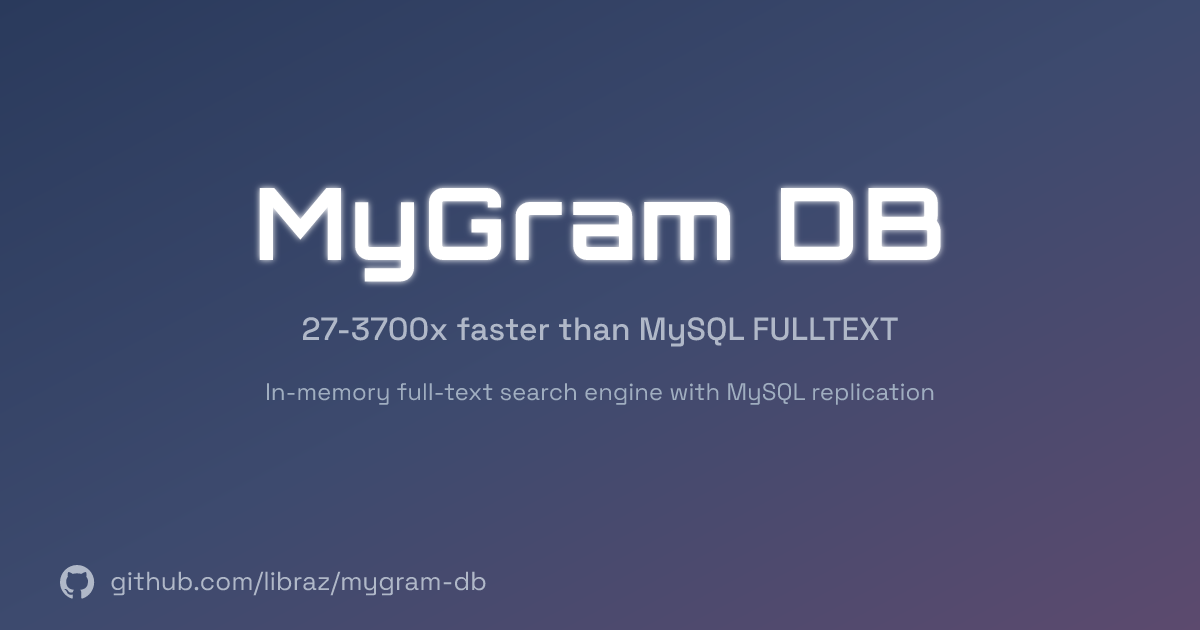
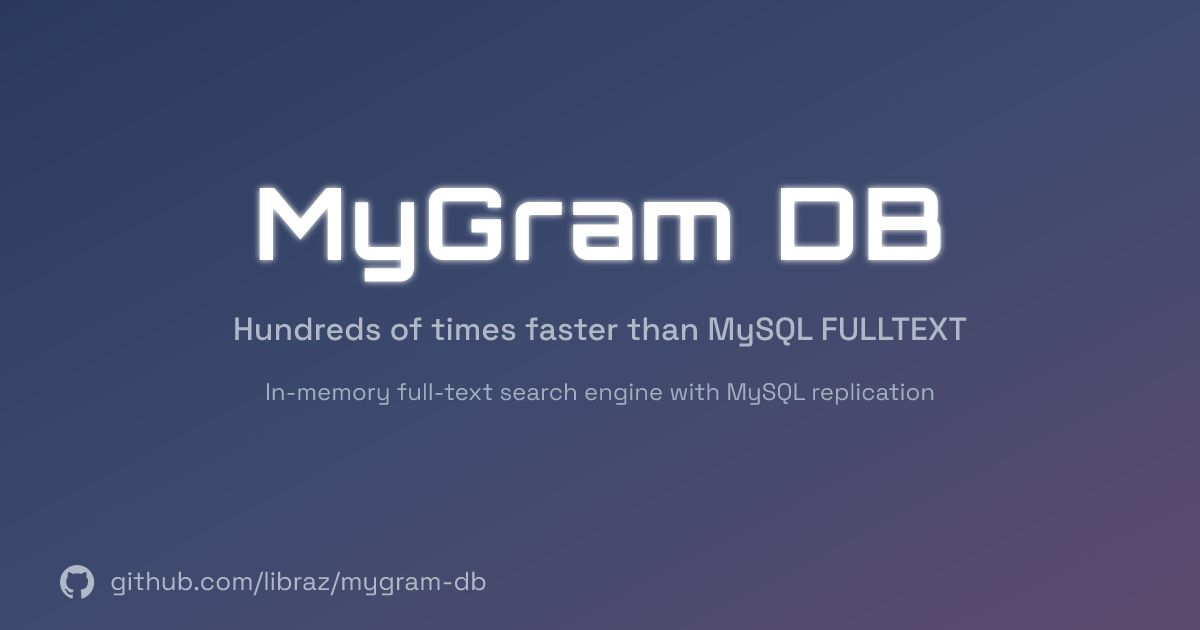
Bump v1.5.3 → v1.5.4 and promote Python client to official
- Update version references across config, FAQ, and installation docs (en/ja)
- Remove experimental badge from Python client, switch install to PyPI (`pip install mygramdb-client`)
- Update OG image

Changed region(s): [[0.185, 0.4825, 0.8017, 0.5429]]

diff --git a/.vitepress/config.ts b/.vitepress/config.ts
@@ -19,7 +19,7 @@ const softwareApplicationJsonLd = {
   description: 'In-memory full-text search engine that replaces slow MySQL FULLTEXT. Tens to hundreds of times faster with real-time MySQL binlog replication.',
   url: siteUrl,
   downloadUrl: githubUrl,
-  softwareVersion: '1.5.3',
+  softwareVersion: '1.5.4',
   author: {
     '@type': 'Person',
     name: 'libraz'
@@ -147,9 +147,9 @@ export default withMermaid(defineConfig({
           { text: '比較', link: '/ja/comparison' },
           { text: 'FAQ', link: '/ja/faq' },
           {
-            text: 'v1.5.3',
+            text: 'v1.5.4',
             items: [
-              { text: 'リリースノート', link: 'https://github.com/libraz/mygram-db/blob/main/docs/releases/v1.5.3.md' },
+              { text: 'リリースノート', link: 'https://github.com/libraz/mygram-db/blob/main/docs/releases/v1.5.4.md' },
               { text: '変更履歴', link: 'https://github.com/libraz/mygram-db/blob/main/CHANGELOG.md' }
             ]
           }
@@ -186,9 +186,9 @@ export default withMermaid(defineConfig({
       { text: 'Comparison', link: '/comparison' },
       { text: 'FAQ', link: '/faq' },
       {
-        text: 'v1.5.3',
+        text: 'v1.5.4',
         items: [
-          { text: 'Release Notes', link: 'https://github.com/libraz/mygram-db/blob/main/docs/releases/v1.5.3.md' },
+          { text: 'Release Notes', link: 'https://github.com/libraz/mygram-db/blob/main/docs/releases/v1.5.4.md' },
           { text: 'Changelog', link: 'https://github.com/libraz/mygram-db/blob/main/CHANGELOG.md' }
         ]
       }

diff --git a/src/index.md b/src/index.md
@@ -105,10 +105,10 @@ resp, _ := client.Search("articles", "hello world", mygram.SearchOptions{})
 
 <a href="https://github.com/libraz/go-mygram-client" class="vp-button" target="_blank"><svg xmlns="http://www.w3.org/2000/svg" width="16" height="16" viewBox="0 0 24 24" fill="currentColor"><path d="M12 2A10 10 0 0 0 2 12c0 4.42 2.87 8.17 6.84 9.5c.5.08.66-.23.66-.5v-1.69c-2.77.6-3.36-1.34-3.36-1.34c-.46-1.16-1.11-1.47-1.11-1.47c-.91-.62.07-.6.07-.6c1 .07 1.53 1.03 1.53 1.03c.87 1.52 2.34 1.07 2.91.83c.09-.65.35-1.09.63-1.34c-2.22-.25-4.55-1.11-4.55-4.92c0-1.11.38-2 1.03-2.71c-.1-.25-.45-1.29.1-2.64c0 0 .84-.27 2.75 1.02c.79-.22 1.65-.33 2.5-.33s1.71.11 2.5.33c1.91-1.29 2.75-1.02 2.75-1.02c.55 1.35.2 2.39.1 2.64c.65.71 1.03 1.6 1.03 2.71c0 3.82-2.34 4.66-4.57 4.91c.36.31.69.92.69 1.85V21c0 .27.16.59.67.5C19.14 20.16 22 16.42 22 12A10 10 0 0 0 12 2Z"/></svg>go-mygram-client on GitHub</a>
 
-### Python <Badge type="warning" text="experimental" />
+### Python
 
 ```bash
-pip install git+https://github.com/libraz/python-mygramdb-client.git
+pip install mygramdb-client
 ```
 
 ```python

diff --git a/src/ja/index.md b/src/ja/index.md
@@ -105,10 +105,10 @@ resp, _ := client.Search("articles", "hello world", mygram.SearchOptions{})
 
 <a href="https://github.com/libraz/go-mygram-client" class="vp-button" target="_blank"><svg xmlns="http://www.w3.org/2000/svg" width="16" height="16" viewBox="0 0 24 24" fill="currentColor"><path d="M12 2A10 10 0 0 0 2 12c0 4.42 2.87 8.17 6.84 9.5c.5.08.66-.23.66-.5v-1.69c-2.77.6-3.36-1.34-3.36-1.34c-.46-1.16-1.11-1.47-1.11-1.47c-.91-.62.07-.6.07-.6c1 .07 1.53 1.03 1.53 1.03c.87 1.52 2.34 1.07 2.91.83c.09-.65.35-1.09.63-1.34c-2.22-.25-4.55-1.11-4.55-4.92c0-1.11.38-2 1.03-2.71c-.1-.25-.45-1.29.1-2.64c0 0 .84-.27 2.75 1.02c.79-.22 1.65-.33 2.5-.33s1.71.11 2.5.33c1.91-1.29 2.75-1.02 2.75-1.02c.55 1.35.2 2.39.1 2.64c.65.71 1.03 1.6 1.03 2.71c0 3.82-2.34 4.66-4.57 4.91c.36.31.69.92.69 1.85V21c0 .27.16.59.67.5C19.14 20.16 22 16.42 22 12A10 10 0 0 0 12 2Z"/></svg>go-mygram-client on GitHub</a>
 
-### Python <Badge type="warning" text="experimental" />
+### Python
 
 ```bash
-pip install git+https://github.com/libraz/python-mygramdb-client.git
+pip install mygramdb-client
 ```
 
 ```python

diff --git a/src/faq.md b/src/faq.md
@@ -245,7 +245,7 @@ Aware of the trade-off. The author believes Rust replacing C++ is a matter of ti
 
 ### How mature is the project?
 
-Development started in November 2025. The current version is 1.5.3 (April 2026). The project has been used in production on a high-traffic service (details under NDA). The release cadence is active, with focus on scalability (event-driven reactor I/O model), stability (thread safety fixes, replication edge cases), and operational features (Prometheus metrics, health checks, Kubernetes readiness).
+Development started in November 2025. The current version is 1.5.4 (April 2026). The project has been used in production on a high-traffic service (details under NDA). The release cadence is active, with focus on scalability (event-driven reactor I/O model), stability (thread safety fixes, replication edge cases), and operational features (Prometheus metrics, health checks, Kubernetes readiness).
 
 ### How do I migrate from MySQL FULLTEXT to MygramDB?
 

diff --git a/src/ja/docs/installation.md b/src/ja/docs/installation.md
@@ -37,7 +37,7 @@ docker run -d \
 ```
 
 利用可能なタグ：
-- `ghcr.io/libraz/mygram-db:1.5.3`
+- `ghcr.io/libraz/mygram-db:1.5.4`
 - `ghcr.io/libraz/mygram-db:latest`
 
 `linux/amd64`と`linux/arm64`の両方をサポート。

diff --git a/src/docs/installation.md b/src/docs/installation.md
@@ -37,7 +37,7 @@ docker run -d \
 ```
 
 Available tags:
-- `ghcr.io/libraz/mygram-db:1.5.3`
+- `ghcr.io/libraz/mygram-db:1.5.4`
 - `ghcr.io/libraz/mygram-db:latest`
 
 Supports both `linux/amd64` and `linux/arm64`.
